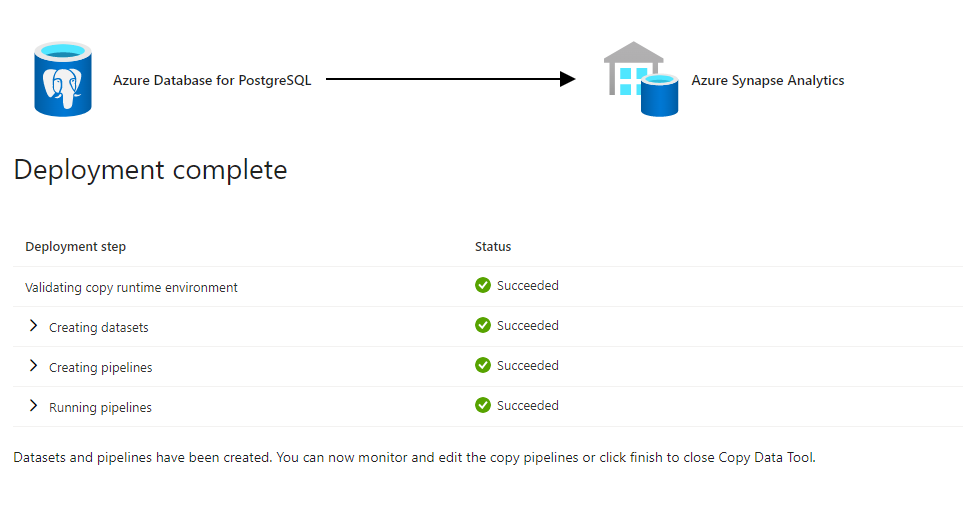
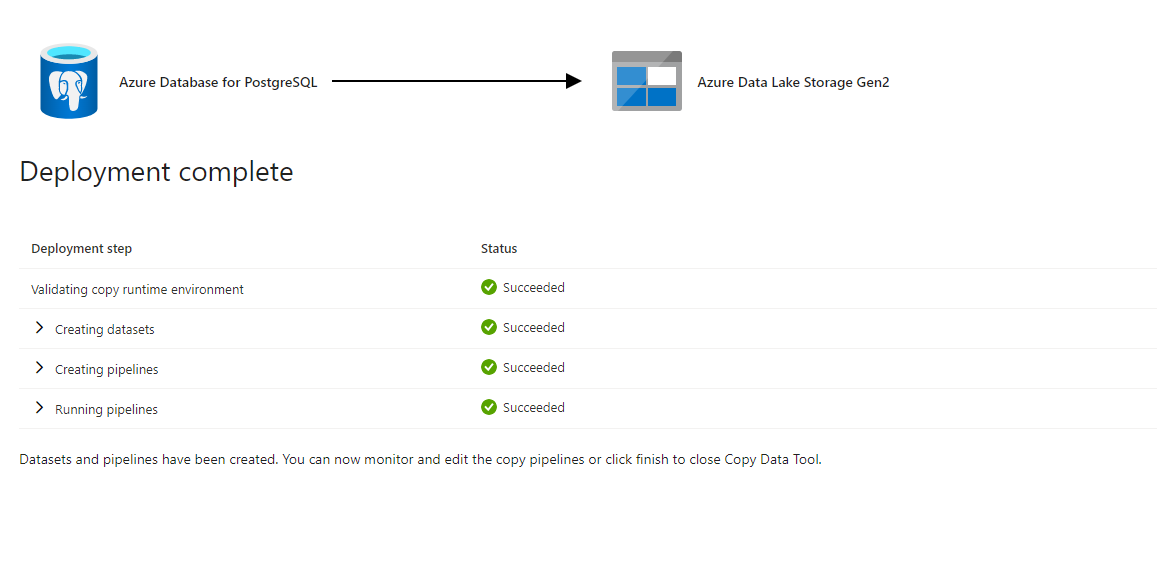
added initial create scripts for synapse tables

diff --git a/src/etl_synapse/etl.py b/src/etl_synapse/etl.py
@@ -1,17 +1,33 @@
 # https://stackoverflow.com/questions/17261061/execute-sql-schema-in-psycopg2-in-python
 
+import pyodbc
 from config import *
 
 
-def set_up(default_dbname = "postgres"):
-    # DB connection
+def set_up(connection):
     print("""Setup started.""")
-    print("""Establishing connection to postgres {} listening on {}, port {} with user name: {}.""".format(default_dbname, host, port, user))
-    connection = pg.connect(
-        host=host,
-        port=port,
-        dbname=default_dbname,
-        user=user
-    )
-    with connection as cursor:
-        cursor.execute(open("sql/load1.sql", "r").read())
+    for script in create_scripts_config:
+        print(f"Running script {script}")
+        with connection as cursor:
+            script_location = script_path.joinpath(f"{script}")
+            cursor.execute(open(script_location, "r").read())
+        print(f"Completed script {script}")
+    
+def load_tables(connection):
+    print("""Load started.""")
+    for script in load_scripts_config:
+        print(f"Running script {script}")
+        with connection as cursor:
+            script_location = script_path.joinpath(f"{script}")
+            cursor.execute(open(script_location, "r").read())
+        print(f"Completed script {script}")
+
+
+if __name__ == '__main__':
+    # DB connection
+    print("""Establishing connection with DRIVER={};User={};Password={};Server={};Database={};""".format(driver, user, password, server, dbname))
+    connection = pyodbc.connect('DRIVER='+driver+';SERVER=tcp:'+server+';PORT=1433;DATABASE='+dbname+';UID='+user+';PWD='+ password+";Trusted_Connection = yes;")
+    connection.autocommit = True
+    set_up(connection)
+
+

diff --git a/src/etl_postgres/test.py b/src/etl_postgres/test.py
@@ -1,0 +1,51 @@
+import string
+import psycopg2 as pg
+import yaml
+from pathlib import Path
+import os
+import pandas as pd
+import configparser
+from config import *
+import zipfile
+import psycopg2
+from psycopg2.extensions import ISOLATION_LEVEL_AUTOCOMMIT
+
+def load_config() -> list:
+    with open(schema_path) as schema_file:
+        config = yaml.safe_load(schema_file)
+    return config
+
+def query_tables(
+    config: list, connection: pg.extensions.connection
+):
+    cur = connection.cursor()
+    for table in config:
+        name = table.get('name')
+        ddl = f"""SELECT COUNT(*) FROM {name}"""
+        cur.execute(ddl)
+        table_count = cur.fetchone()
+        print("""table count: {} table: {}.""".format(table_count, name))
+
+    connection.commit()
+    print("""Commited all creations.""")
+
+def test_database():
+    # DB connection
+    print("""ETL started.""")
+    print("""Establishing connection to database {} listening on {}, port {} with user name: {}.""".format(dbname, host, port, user))
+    connection = pg.connect(
+        host=host,
+        port=port,
+        dbname=dbname,
+        user=user,
+        password=password,
+        sslmode='require'
+    )
+    config = load_config()
+    query_tables(config=config, connection=connection)
+    
+
+if __name__ == '__main__':
+    test_database()
+
+

diff --git a/src/etl_synapse/config.py b/src/etl_synapse/config.py
@@ -3,17 +3,32 @@ from pathlib import Path
 
 os.environ['HOME'] = ""
     
-#Set path
-schema_path = Path(
+
+script_path =  Path(
         os.environ['HOME'],
         'src',
-        'schemas',
-        'synapse',
-        'schemas.yaml'
+        'etl_synapse'
     )
 
+create_scripts_config = [
+    'sql/create1.sql',
+    'sql/create2.sql',
+    'sql/create3.sql',
+    'sql/create4.sql',
+    'sql/create5.sql'
+]
+
+load_scripts_config = [
+    'sql/load1.sql',
+    'sql/load2.sql',
+    'sql/load3.sql',
+    'sql/load4.sql',
+    'sql/load5.sql'
+]
+
 #Set db variables
-host='localhost'
-port=54320
-dbname='ht_db'
-user='postgres'
+driver='{ODBC Driver 17 for SQL Server}'
+server='[].sql.azuresynapse.net'
+dbname=''
+user=''
+password=''

diff --git a/README.md b/README.md
@@ -125,27 +125,37 @@ Install required packages
   pip install -r requirement.txt    
 ```
 
+Allow access to the database
+
+![Firewall](/images/postgres_firewall.png)
+
 Run ETL script to set up Postgres Database 
 ```bash
   python src/etl_postgres/etl.py
 ```
+
+Verify Postgres Database is populated
+```bash
+  python src/etl_postgres/test.py
+```
+
 
 ## Task 4: EXTRACT the data from PostgreSQL
 In your Azure Synapse workspace, you will use the ingest wizard to create a one-time pipeline that ingests the data from PostgreSQL into Azure Blob Storage. This will result in all four tables being represented as text files in Blob Storage, ready for loading into the data warehouse.
 
 ![Copy1](/images/copy_data.png)
 
-![Copy2](/images/copy_data2.png)
+![staging](/images/staging_data.png)
 
-[Azure Example](https://docs.microsoft.com/en-us/azure/data-factory/load-azure-sql-data-warehouse?tabs=data-factory)
 
 ## Task 5: LOAD the data into external tables in the data warehouse
 Once in Blob storage, the files will be shown in the data lake node in the Synapse Workspace. From here, you can use the script generating function to load the data from blob storage into external staging tables in the data warehouse you created using the Dedicated SQL Pool.
 
 
-![Copy1](/images/copy_data.png)
+![CopyAndLoad](/images/copy_and_load.png)
 
-![Copy2](/images/copy_data2.png)
+![Data](/images/loaded_staging_tables.png)
+
 
 
 ## Task 6: TRANSFORM the data to the star schema
